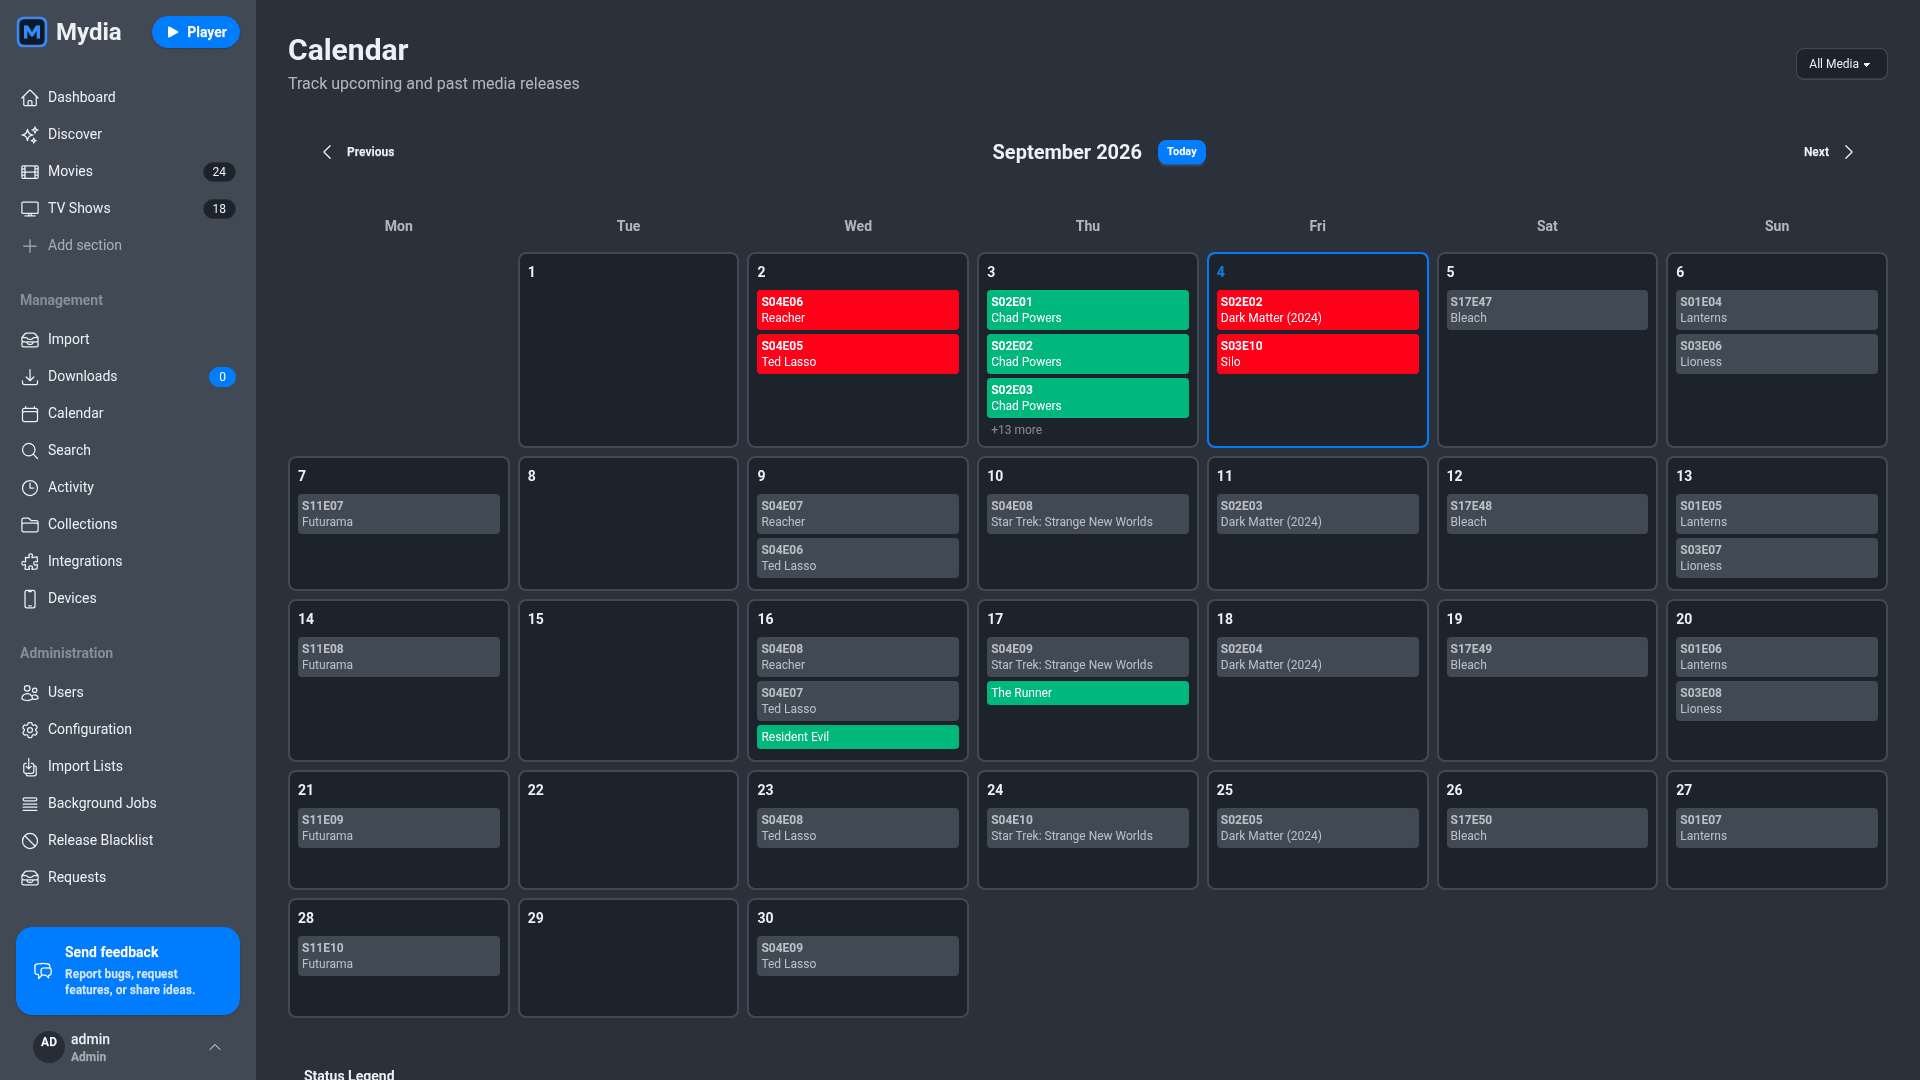
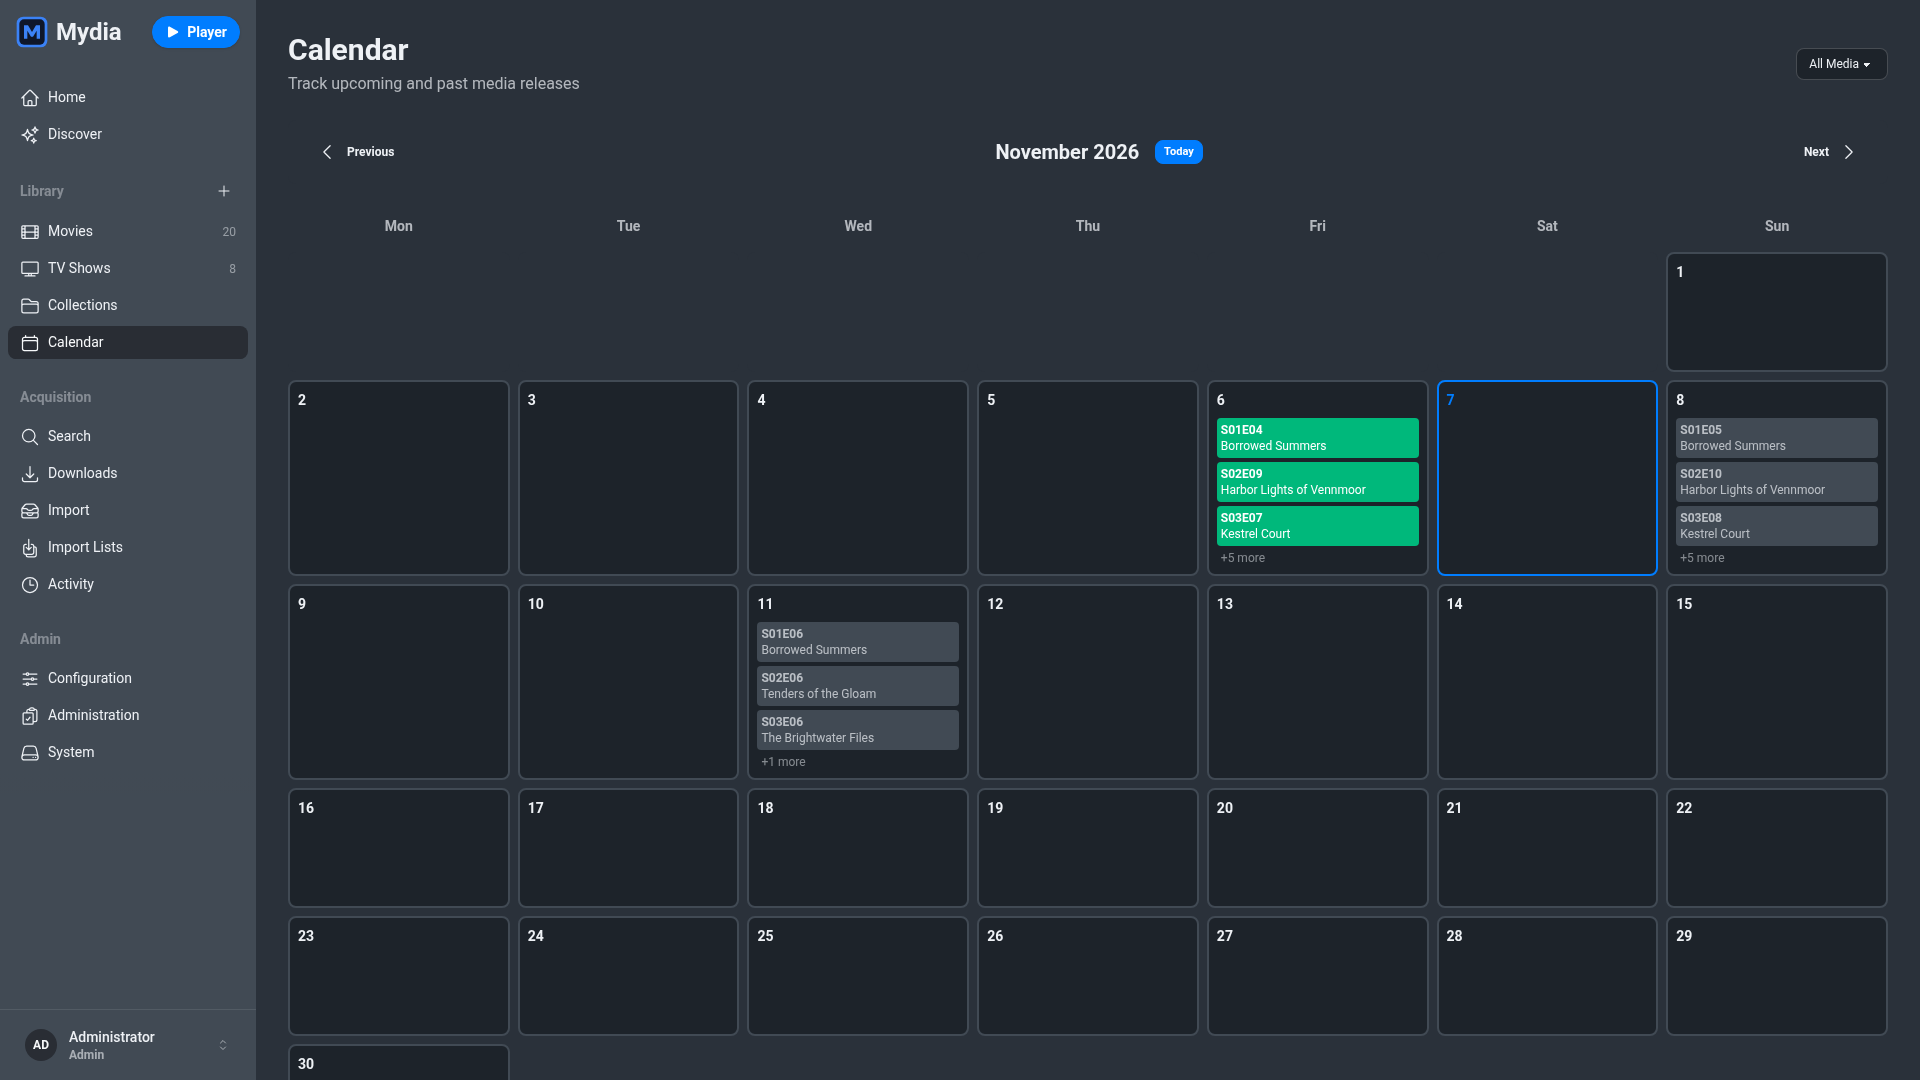
docs: retake screenshots against the demo library, with theme sets
The capture script now applies server themes through the html attributes
(the old window.mydiaTheme hook no longer exists), captures the dashboard
once per curated server theme and the web player once per preset at desktop
and phone sizes, and writes every file to screenshots/ and
site/src/assets/screenshots/. All shots are taken against the invented demo
library.

diff --git a/assets/screenshots.js b/assets/screenshots.js
@@ -1,3 +1,4 @@
+const fs = require("fs");
 const { chromium } = require("@playwright/test");
 
 /**
@@ -6,6 +7,9 @@ const { chromium } = require("@playwright/test");
 const config = {
   baseUrl: process.env.BASE_URL || "http://localhost:4000",
   outputDir: process.env.OUTPUT_DIR || "../screenshots",
+  // The website's copies. Every file is written to both directories.
+  siteOutputDir:
+    process.env.SITE_OUTPUT_DIR || "../site/src/assets/screenshots",
   viewport: {
     width: 1920,
     height: 1080,
@@ -24,9 +28,9 @@ const config = {
 /**
  * Web UI screenshots.
  *
- * `theme` is the value passed to window.mydiaTheme. Dark is the default
- * because mydia.dev is a dark-only site and the README leads with it; the
- * light dashboard exists so the README can swap on the reader's own scheme.
+ * `theme` is an id from serverThemes. mydia-dark is the default because the
+ * README leads with it; the light dashboard exists so the README can swap on
+ * the reader's own scheme.
  */
 const screenshots = [
   {
@@ -34,28 +38,28 @@ const screenshots = [
     path: "/",
     description: "Homepage / Dashboard",
     waitFor: "main, [data-phx-main]",
-    theme: "DARK",
+    theme: "mydia-dark",
   },
   {
     name: "homepage-light",
     path: "/",
     description: "Homepage / Dashboard (light theme)",
     waitFor: "main, [data-phx-main]",
-    theme: "LIGHT",
+    theme: "mydia-light",
   },
   {
     name: "movies",
     path: "/movies",
     description: "Movies Library",
     waitFor: "h1, h2, main",
-    theme: "DARK",
+    theme: "mydia-dark",
   },
   {
     name: "tv-shows",
     path: "/tv",
     description: "TV Shows Library",
     waitFor: "h1, h2, main",
-    theme: "DARK",
+    theme: "mydia-dark",
   },
   {
     // Resolved at capture time: the first card on /tv. Hardcoding an id would
@@ -65,14 +69,40 @@ const screenshots = [
     follow: 'main a[href^="/media/"]',
     description: "Series detail (seasons and episodes)",
     waitFor: "h1, h2, main",
-    theme: "DARK",
+    theme: "mydia-dark",
   },
   {
     name: "calendar",
     path: "/calendar",
     description: "Calendar view",
     waitFor: "h1, h2, main",
-    theme: "DARK",
+    theme: "mydia-dark",
+  },
+];
+
+/**
+ * Curated server themes. Keep in step with site/src/data/themes.ts (a CommonJS
+ * script cannot import TS; Task 2's tests guard the ids against the app).
+ * `base` is the theme's base-100 colour and `scheme` its color scheme.
+ */
+const serverThemes = [
+  { id: "mydia-dark", base: "#0f172a", scheme: "dark" },
+  { id: "mydia-light", base: "#f8fafc", scheme: "light" },
+  { id: "nord", base: "#eceff4", scheme: "light" },
+  { id: "dracula", base: "#282a36", scheme: "dark" },
+  { id: "mocha", base: "#1e1e2e", scheme: "dark" },
+  { id: "sunset", base: "#121c22", scheme: "dark" },
+];
+
+/** Player presets (ThemePreset enum names), in themes.ts order. */
+const playerPresets = ["projectionBooth", "oledBlack", "slate"];
+
+const playerSizes = [
+  { suffix: "", viewport: { width: 1920, height: 880 }, deviceScaleFactor: 1 },
+  {
+    suffix: "-phone",
+    viewport: { width: 448, height: 950 },
+    deviceScaleFactor: 2,
   },
 ];
 
@@ -132,17 +162,37 @@ async function login(page) {
   console.log("✓ Logged in successfully\n");
 }
 
-async function setTheme(page, theme) {
-  const applied = await page.evaluate((t) => {
-    if (!window.mydiaTheme) return null;
-    window.mydiaTheme.setTheme(window.mydiaTheme.THEMES[t]);
-    return document.documentElement.getAttribute("data-theme");
-  }, theme);
+/**
+ * Applies a server theme to the loaded page by setting the attributes the
+ * inline script in root.html.heex sets. Call it after every page.goto, since
+ * a navigation reloads the document and drops them.
+ */
+async function applyServerTheme(page, id, base, scheme) {
+  await page.evaluate(
+    ([themeId, themeBase, themeScheme]) => {
+      const root = document.documentElement;
+      root.setAttribute("data-theme", themeId);
+      root.setAttribute("data-color-scheme", themeScheme);
+      root.style.backgroundColor = themeBase;
+    },
+    [id, base, scheme],
+  );
+  await page.waitForTimeout(500);
+}
 
-  if (!applied) {
-    console.log("  ⚠ Warning: window.mydiaTheme missing, theme not applied");
+function themeById(id) {
+  const theme = serverThemes.find((t) => t.id === id);
+  if (!theme) throw new Error(`Unknown server theme "${id}"`);
+  return theme;
+}
+
+/** Saves a screenshot to the README and website directories. */
+async function save(page, name, options = {}) {
+  for (const dir of [config.outputDir, config.siteOutputDir]) {
+    fs.mkdirSync(dir, { recursive: true });
+    await page.screenshot({ path: `${dir}/${name}.png`, ...options });
   }
-  await page.waitForTimeout(1500);
+  console.log(`  ✓ Saved ${name}.png to ${config.outputDir} and ${config.siteOutputDir}`);
 }
 
 async function captureWebUi(browser) {
@@ -153,19 +203,9 @@ async function captureWebUi(browser) {
   const page = await context.newPage();
   await login(page);
 
-  let currentTheme = null;
-
   for (const screenshot of screenshots) {
     console.log(`📸 Capturing: ${screenshot.description}`);
-
-    // The theme lives in localStorage, so it has to be set from a Mydia page
-    // and then survives the rest of the run until it is changed again.
-    if (screenshot.theme && screenshot.theme !== currentTheme) {
-      await page.goto(`${config.baseUrl}/`);
-      await page.waitForTimeout(2000);
-      await setTheme(page, screenshot.theme);
-      currentTheme = screenshot.theme;
-    }
+    const theme = themeById(screenshot.theme);
 
     await page.goto(`${config.baseUrl}${screenshot.path}`);
 
@@ -183,6 +223,7 @@ async function captureWebUi(browser) {
 
     // Additional wait for LiveView to settle
     await page.waitForTimeout(2000);
+    await applyServerTheme(page, theme.id, theme.base, theme.scheme);
 
     // Some shots are of a detail page reached from a listing, so the id
     // comes from whatever is in the library rather than the config.
@@ -208,15 +249,26 @@ async function captureWebUi(browser) {
         state: "attached",
       });
       await page.waitForTimeout(2000);
+      await applyServerTheme(page, theme.id, theme.base, theme.scheme);
     }
 
-    const filename = `${config.outputDir}/${screenshot.name}.png`;
-    await page.screenshot({
-      path: filename,
-      fullPage: screenshot.fullPage || false,
-    });
+    await save(page, screenshot.name, { fullPage: screenshot.fullPage || false });
+    console.log("");
+  }
 
-    console.log(`  ✓ Saved to ${filename}\n`);
+  // The dashboard once per curated theme.
+  for (const theme of serverThemes) {
+    console.log(`📸 Capturing: server theme ${theme.id}`);
+    await page.goto(`${config.baseUrl}/`);
+    await page
+      .waitForSelector("main, [data-phx-main]", { timeout: 10000, state: "attached" })
+      .catch(() => {
+        console.log('  ⚠ Warning: Selector "main, [data-phx-main]" not found');
+      });
+    await page.waitForTimeout(2000);
+    await applyServerTheme(page, theme.id, theme.base, theme.scheme);
+    await save(page, `server-theme-${theme.id}`);
+    console.log("");
   }
 
   await context.close();
@@ -242,13 +294,41 @@ async function capturePlayer(browser) {
       }, hash);
       await page.waitForTimeout(6000);
 
-      const filename = `${config.outputDir}/${name}.png`;
-      await page.screenshot({ path: filename });
-      console.log(`  ✓ Saved to ${filename}`);
+      await save(page, name);
     }
 
     console.log("");
     await context.close();
+  }
+
+  // Each preset at both sizes. The preset is read from localStorage at boot,
+  // so seed it before any page script runs, in a fresh context.
+  for (const preset of playerPresets) {
+    for (const size of playerSizes) {
+      const name = `player-theme-${preset}${size.suffix}`;
+      console.log(`📸 Capturing: ${name}`);
+
+      const context = await browser.newContext({
+        viewport: size.viewport,
+        deviceScaleFactor: size.deviceScaleFactor,
+      });
+      await context.addInitScript((id) => {
+        window.localStorage.setItem("mydia_auth_theme_preset", id);
+      }, preset);
+      const page = await context.newPage();
+      await login(page);
+
+      await page.goto(`${config.baseUrl}/player`);
+      await page.waitForTimeout(PLAYER_BOOT_MS);
+      await page.evaluate(() => {
+        window.location.hash = "#/";
+      });
+      await page.waitForTimeout(6000);
+
+      await save(page, name);
+      console.log("");
+      await context.close();
+    }
   }
 }
 
